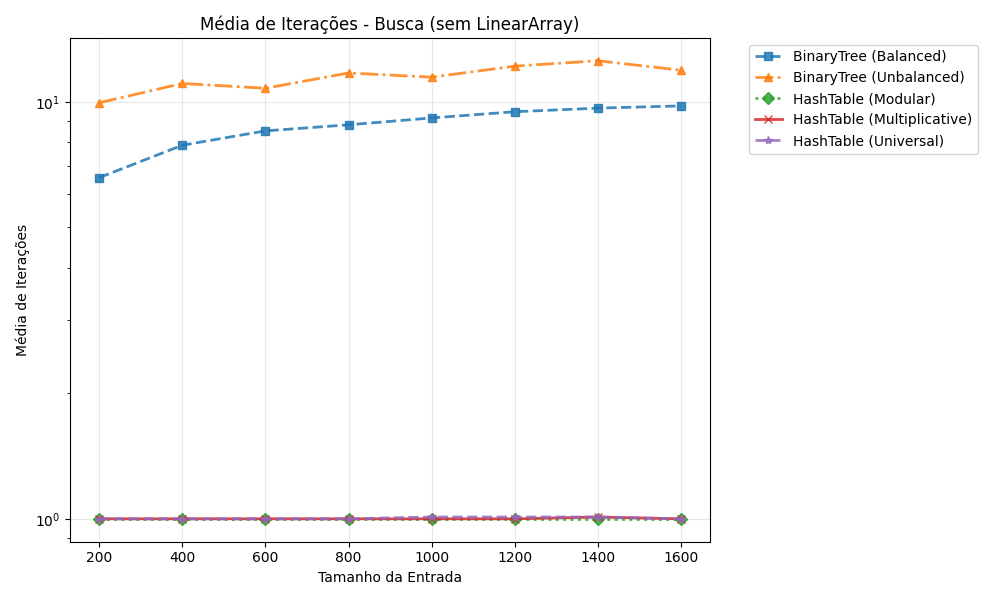
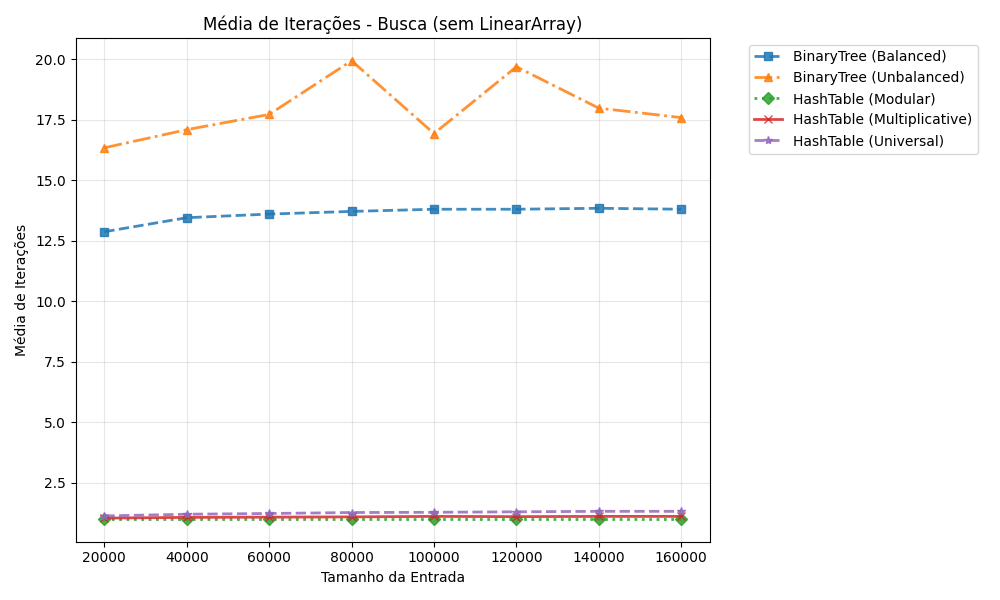
images update

diff --git a/benchmark/Benchmark.py b/benchmark/Benchmark.py
@@ -295,10 +295,6 @@ class Benchmark:
 
                 plt.grid(alpha=0.3)
 
-                # escala log ajuda quando valores são muito diferentes
-                if metric in ["cpu_time", "iterations"]:
-                    plt.yscale("log")
-
                 path = f"{base_path}/{folder}/{metric}.png"
                 os.makedirs(os.path.dirname(path), exist_ok=True)
 
@@ -343,8 +339,6 @@ class Benchmark:
 
                     plt.legend(bbox_to_anchor=(1.05, 1), loc='upper left')
                     plt.grid(alpha=0.3)
-
-                    plt.yscale("log")
 
                     path = f"{base_path}/{folder}/{metric}_no_linear.png"
 

diff --git a/main.py b/main.py
@@ -2,7 +2,7 @@ from benchmark import Benchmark
 
 if __name__ == "__main__":
 
-    sizes = [20000, 40000, 60000, 80000, 100000, 120000, 140000, 1600]
+    sizes = [20000, 40000, 60000, 80000, 100000, 120000, 140000, 160000]
 
     benchmark = Benchmark(rounds=5, sizes=sizes)
     benchmark.run()
